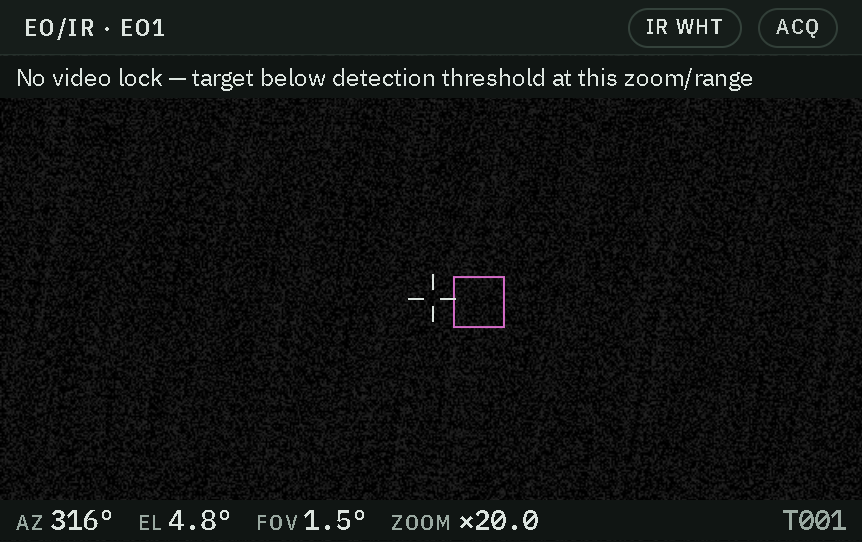
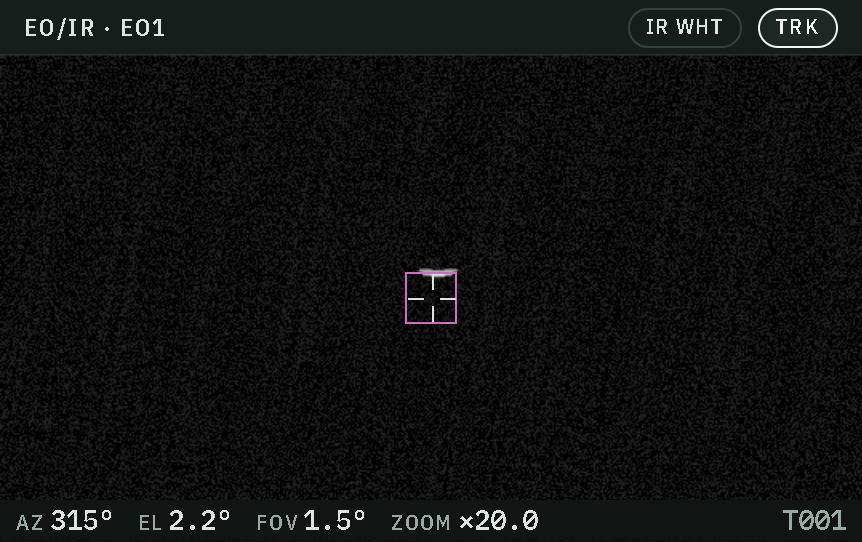
fix(web): night-IR landing still cued at 200 s where the IR tracker locks; recorder fails without a lock instead of capturing an empty frame

diff --git a/apps/web/scripts/record-landing.ts b/apps/web/scripts/record-landing.ts
@@ -179,8 +179,10 @@ async function recordCrops(): Promise<void> {
   // Realism: terrain (S13 mountains), night/IR (S12), silent link (S13 RF), false contacts (S14 birds).
   await heroReady(page, 's=S13&t=60&pause=1');
   await crop(page.locator('[aria-label="Tactical view"]'), 'realism-terrain.png');
-  await heroReady(page, 's=S12&t=215&defend=0&select=threat&zoom=4&ir=1');
-  await page.waitForSelector('[data-eo-state=TRK]', { timeout: 20_000 }).catch(() => undefined);
+  // Cue at 200 s: the IR tracker locks within a second there; a cue at 215 s stays in
+  // CUE (the drone is too close and fast to centre), which captured an empty frame.
+  await heroReady(page, 's=S12&t=200&defend=0&select=threat&zoom=4&ir=1');
+  await page.waitForSelector('[data-eo-state=TRK]', { timeout: 20_000 });
   await page.waitForTimeout(800);
   await crop(
     page.locator('[aria-label^="EO/IR camera view"]').locator('..'),

diff --git a/docs/plans/phase6c-progress.md b/docs/plans/phase6c-progress.md
@@ -14,8 +14,10 @@
 | 4 | Public pages (decision 157): landing in six sheets (`lib/landing.ts`, `components/landing/chain-explorer.tsx`), public header, login rework, `/demo` + `StartDemo` + `auth.loginGuest()` behind the flag, Sources as ruled tables (`lib/sources.ts`, citations tested; md Sky line corrected), mobile baseline in `globals.css`, telemetry strip two columns on phones; recorder: manifest `{images, hero, respond}`, Respond moment searched (not yet re-recorded: run last). Captures at 1366 / 1920 / 390 with no overflow, reviewed. Web vitest 225. |
 | 5a | break-ui (`e2e/break-ui-6c.spec.ts`, report `docs/plans/phase6c-break-ui.md`): status versions overflow at 360 px fixed (table-fixed 55 / 45 %), `formatCount` for counts ≥ 1,000, record "First earned" wraps. 30 / 30, no overflow. Web vitest 226. |
 
-| 5b | `6fc9002` landing media re-recorded (Respond crop with order + outcome, written debrief, grey EO day sky). Follow-up: hero settle 1.5 s → 4 s (the loop opened on a black / "Loading 3D view" frame under load); first frame checked rendered. **Open:** `realism-night-ir.png` shows noise with "No video lock" (S12 t=215, TRK never reached; same in the earlier capture) — needs a closer moment or a longer wait. |
+| 5b | `6fc9002` landing media re-recorded (Respond crop with order + outcome, written debrief, grey EO day sky). Follow-up: hero settle 1.5 s → 4 s (the loop opened on a black / "Loading 3D view" frame under load); first frame checked rendered. Night-IR cue moved 215 s → 200 s (a cue at ≥ 215 s never reaches TRK — drone too close and fast to centre; checked in sim-core) and the recorder now fails if TRK is not reached instead of capturing an empty frame; stills re-recorded with `--crops-only`. |
 
 ## Next
 
-5. Fix the night-IR capture moment, then Checkpoint C on a production build with `NEXT_PUBLIC_GUEST_MODE=true` (wait for OK).
+> **Machine (2026-10-25):** Windows Smart App Control is on and blocks uv's `python.exe` / `uvicorn.exe` and Next's native SWC. Run the API as the Docker image against the dev DB (`docker compose --profile api build api`, then `docker run -d --name vyuh-api-dev -p 8000:8000 --env-file apps/api/.env -e DATABASE_URL=postgresql+psycopg://vyuh:vyuh@host.docker.internal:5432/vyuh vyuh-api`) and the web as `next dev --webpack` (WASM SWC). pytest and other local Python are blocked until then.
+
+5. Checkpoint C on a production build with `NEXT_PUBLIC_GUEST_MODE=true` (wait for OK).
